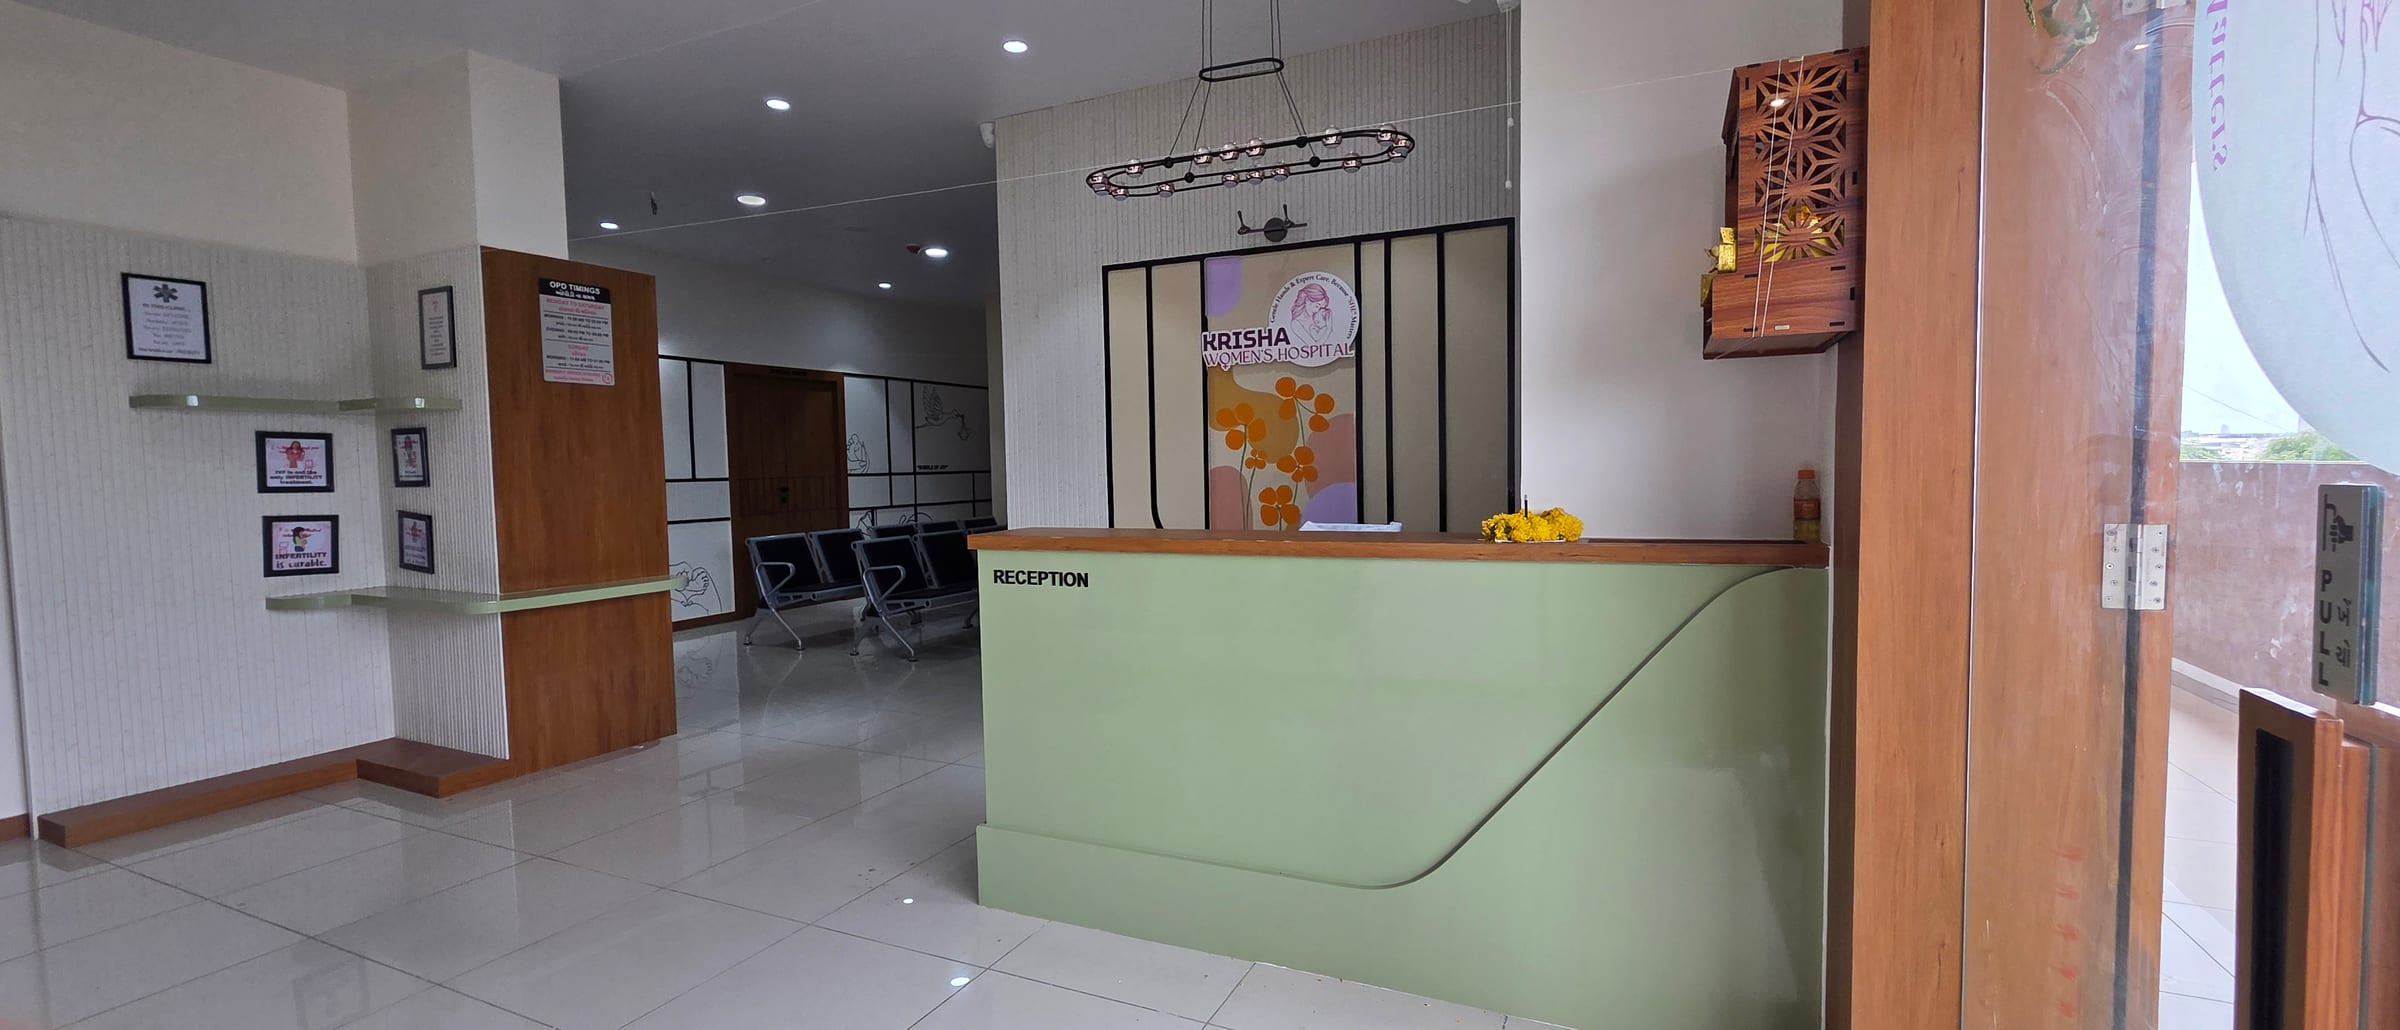
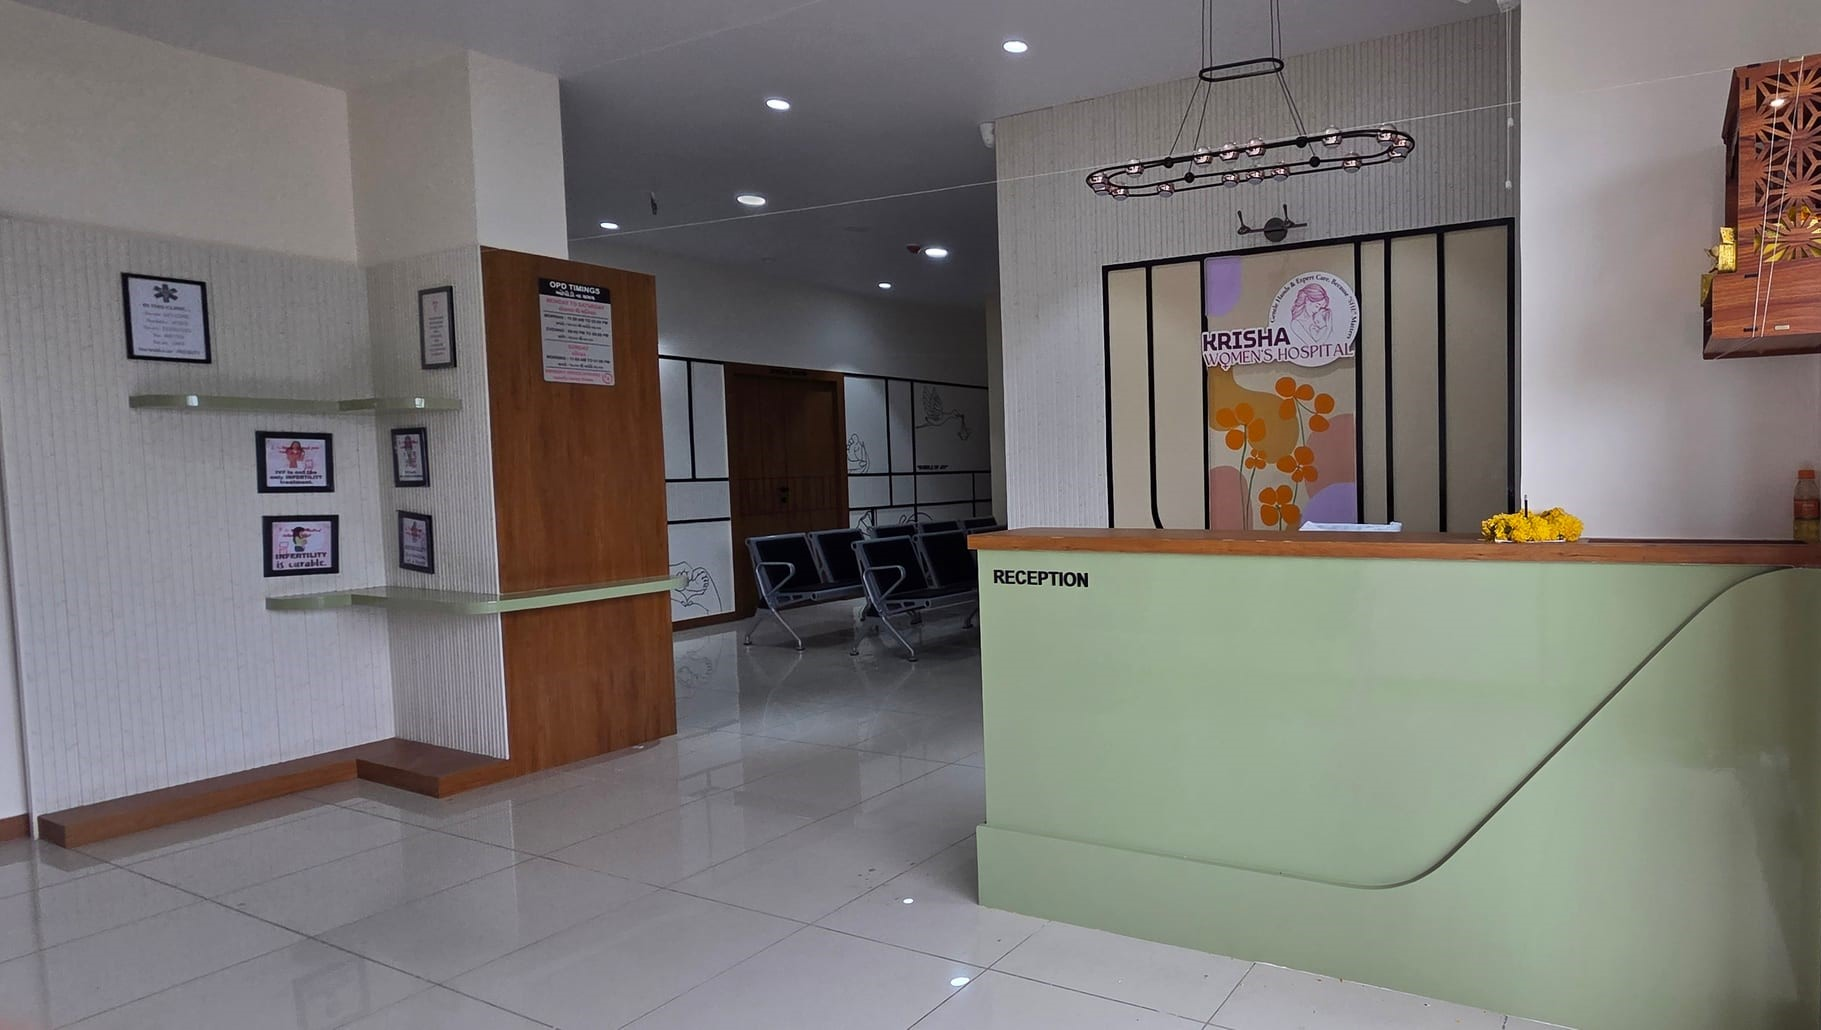
Update: Drop hero Google rating, use the new reception crop
- Hero trust row now shows only "20+ Years of care" and "24×7 Emergency
  cover"; the "4.9 Google rating" entry is removed.
- public/gallery/reception-waiting-lounge.jpg replaced with a tighter,
  straightened crop (1821x1030, was 2400x1030) — same filename, so
  Hero.tsx and the gallery both pick it up with no code change to the
  path itself.
- Hero's object-position simplified from a hand-tuned object-left/center
  split to plain center: at ~1.77:1 this crop is close enough to a wide
  hero box's aspect that object-cover crops mostly top/bottom rather
  than left/right, unlike the old 2.33:1 crop which needed a horizontal
  anchor to keep the desk in frame.
- public/Logo.png also replaced (smaller file, same mark).

diff --git a/app/sections/Hero.tsx b/app/sections/Hero.tsx
@@ -14,7 +14,11 @@ function heroImage(name: string) {
   return image;
 }
 
-/** The widest frame in the library — 2400x1030 carries a full-bleed band. */
+/**
+ * 1821x1030 — the reception crop, straightened and tightened so the desk and
+ * the "KRISHA WOMEN'S HOSPITAL" signage sit inside frame without the glass
+ * door on the previous wide crop's right edge.
+ */
 const backdrop = heroImage('reception-waiting-lounge');
 
 export default function Hero() {
@@ -24,15 +28,15 @@ export default function Hero() {
   const trust = [
     { value: '20+', label: t('trust.years') },
     { value: '24×7', label: t('trust.emergency') },
-    { value: '4.9', label: t('trust.rating') },
   ];
 
   return (
     <section
       id="home"
       /*
-        Capped below full viewport height: the backdrop is 2400x1030, so a
-        taller band crops it hard vertically and throws away the room.
+        Capped below full viewport height: the backdrop is 1821x1030 (~1.77:1),
+        noticeably less panoramic than the old 2400x1030 crop, and a taller
+        band asks object-cover to blow the image up further than it should.
       */
       className="relative flex items-center min-h-160 lg:min-h-[min(88vh,50rem)] overflow-hidden bg-surface"
     >
@@ -44,19 +48,14 @@ export default function Hero() {
         sizes="100vw"
         priority
         /*
-          The desk sits at roughly 35–65% across the source frame.
-
-          Wide: anchored hard left. The copy wash covers the left half of the
-          viewport, so at 42% the desk still landed underneath it and only the
-          glass door and PULL sign showed. Pinning left slides the whole frame
-          right, clearing the desk of the wash and dropping the door off the
-          right edge entirely.
-
-          Narrow: centred. A tall viewport crops this 2400x1030 frame to a thin
-          vertical slice, and the left edge of that slice is a notice board —
-          centring lands the slice on the desk instead.
+          Plain centre. At ~1.77:1 this frame is close enough to a typical wide
+          hero box's aspect that object-cover crops mostly top/bottom rather
+          than left/right — unlike the old 2400x1030 (2.33:1) crop, which lost
+          most of its height and needed a horizontal anchor tuned by hand to
+          keep the desk in frame. Revisit with a specific object-position if a
+          particular viewport width crops into the desk or the signage.
         */
-        className="object-cover object-center sm:object-left"
+        className="object-cover object-center"
       />
 
       {/*
